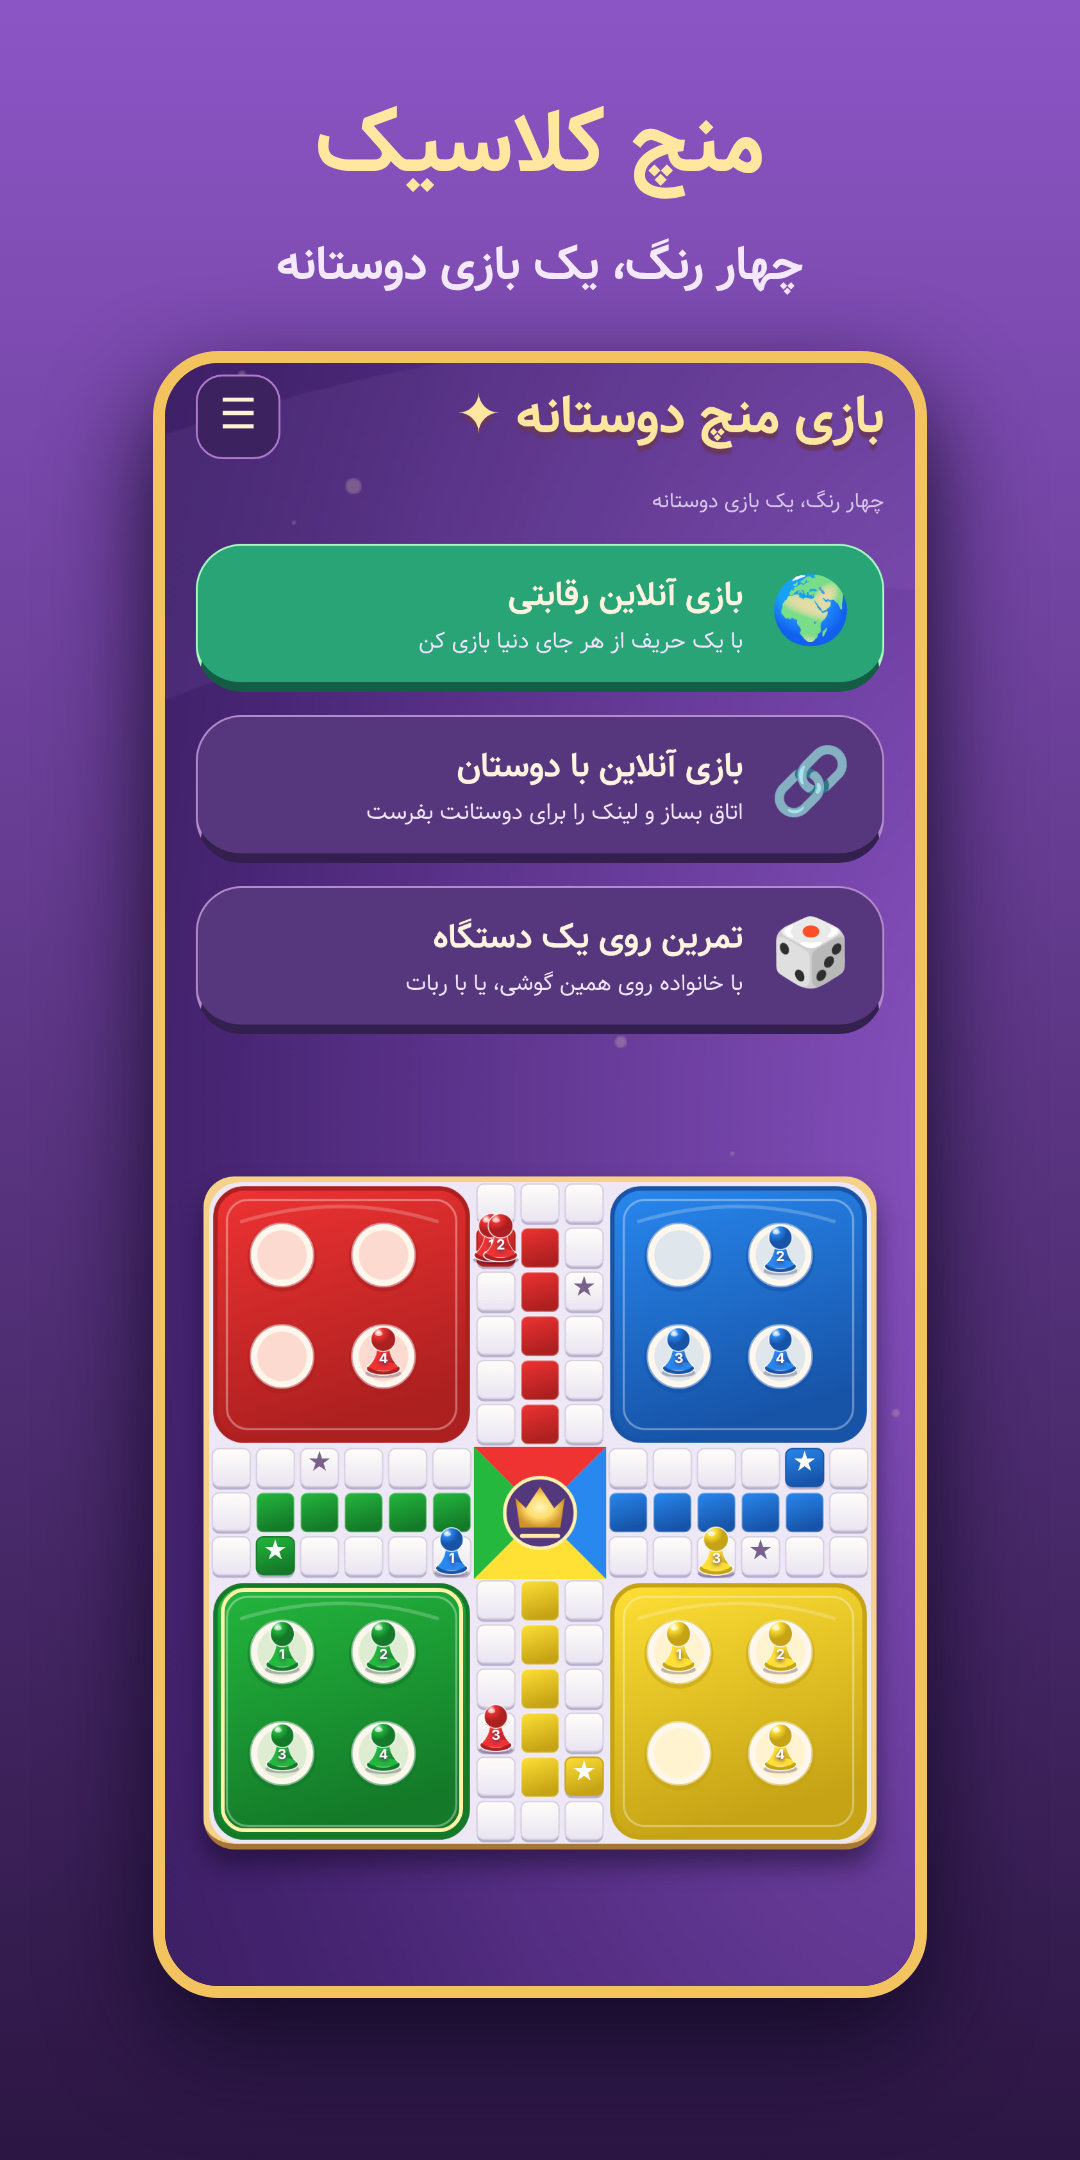
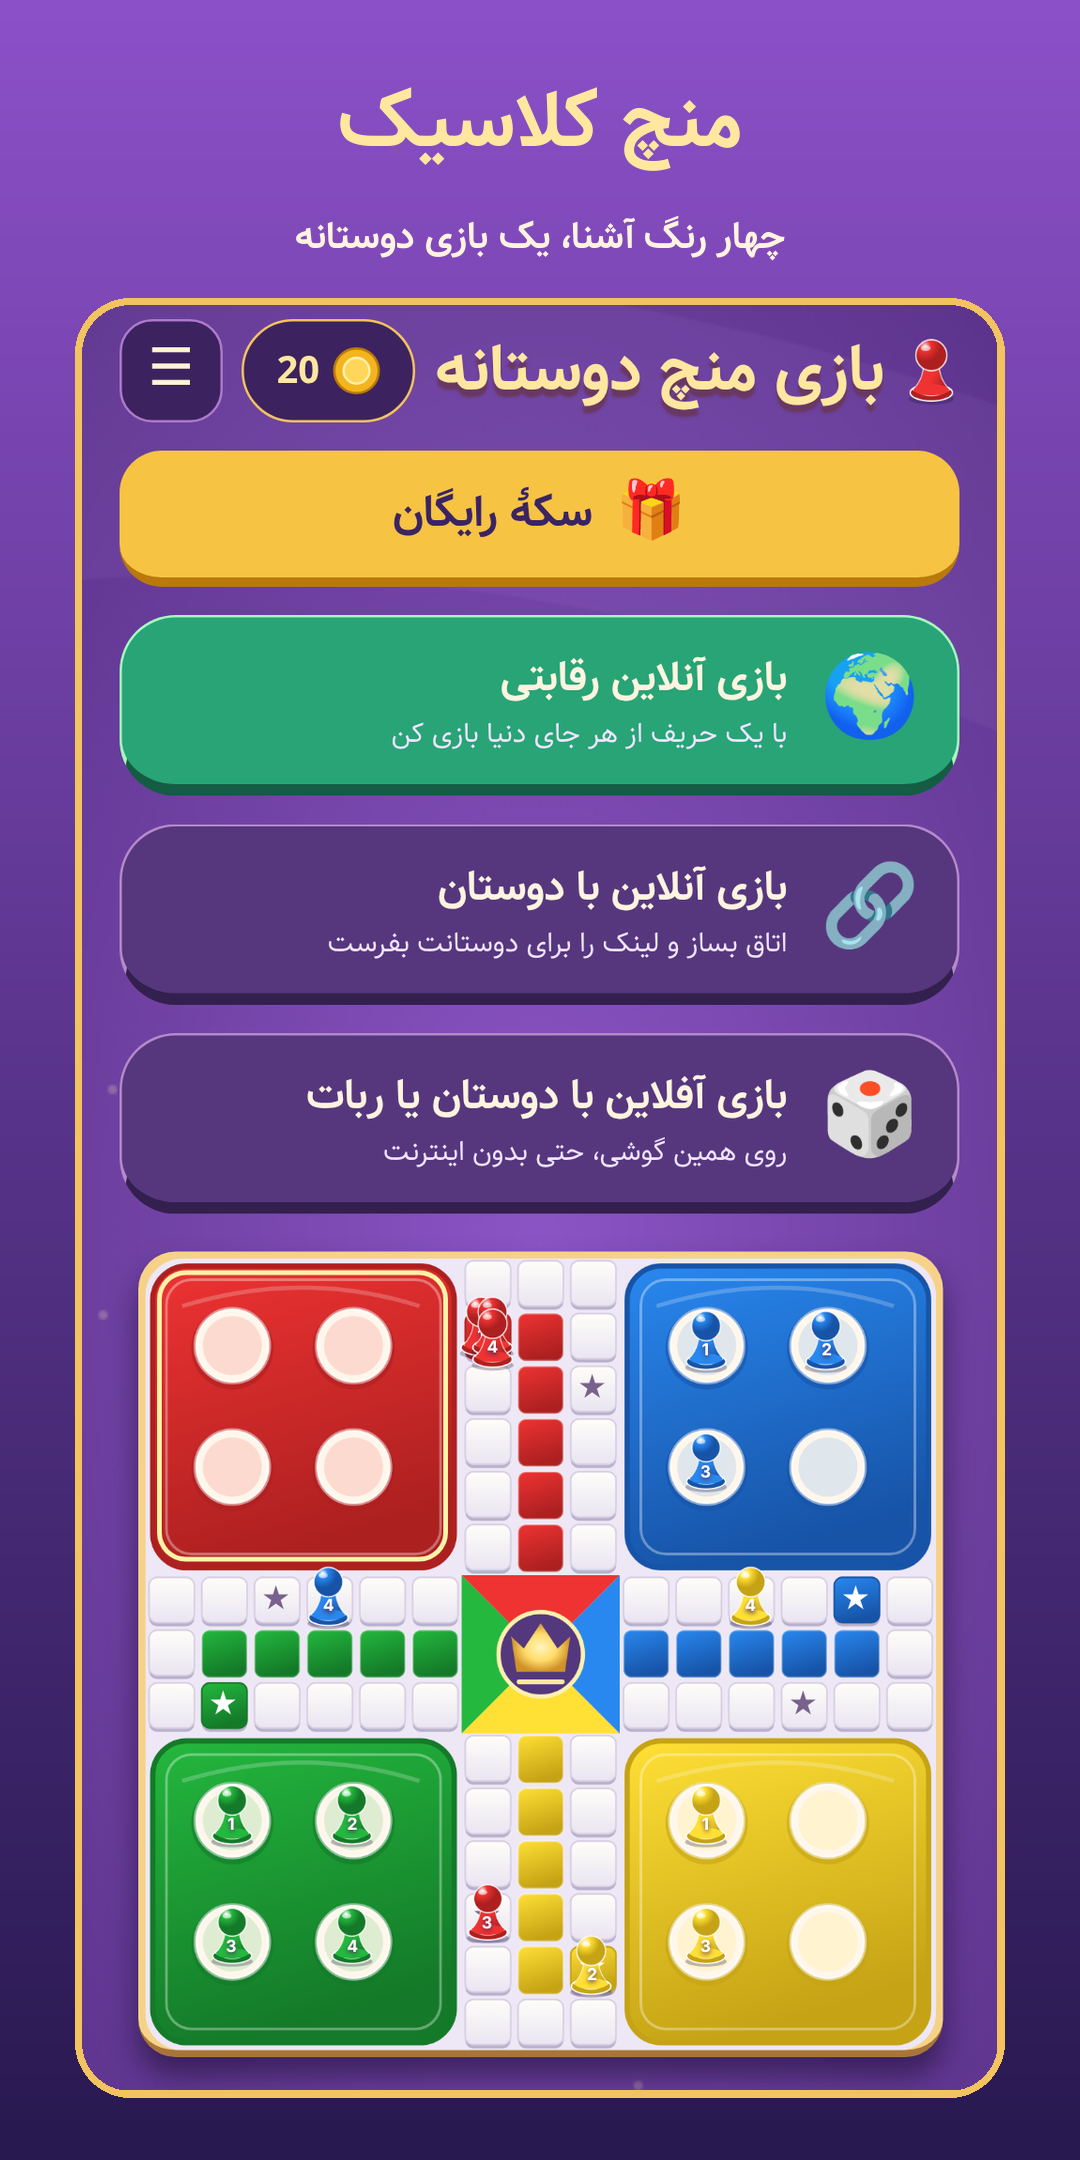
chore(bazaar): Persian 1.1.0 screenshots and listing text
Claude-Session: https://claude.ai/code/session_01ABqsk678opZoTs7ewpNdtH

diff --git a/apps/mobile/store/bazaar/listing-fa.md b/apps/mobile/store/bazaar/listing-fa.md
@@ -3,7 +3,7 @@
 **Name (نام برنامه):** بازی منچ دوستانه
 
 **Short description (توضیح کوتاه، حداکثر ۸۰ نویسه):**
-منچ کلاسیک چهار رنگ؛ آنلاین با دوستان، رقابتی، یا با یک گوشی کنار خانواده
+منچ کلاسیک چهار رنگ؛ آنلاین با دوستان، رقابتی، یا آفلاین با ربات و خانواده
 
 **Category (دسته):** بازی › فکری / تختهای — رده سنی: همه (۳+)
 
@@ -14,7 +14,7 @@
 🎲 هر طور که دوست داری بازی کن
 • بازی آنلاین رقابتی: در چند ثانیه حریف پیدا کن.
 • بازی آنلاین با دوستان: اتاق بساز و لینک دعوت را بفرست؛ دوستانت از اپ یا سایت وارد میشوند.
-• تمرین روی یک دستگاه: دو تا چهار نفر با یک گوشی، یا بازی با کامپیوتر.
+• بازی آفلاین با دوستان یا ربات: دو تا چهار نفر با یک گوشی، حتی بدون اینترنت.
 
 📜 قوانین کلاسیک
 • با عدد ۶ مهره وارد زمین میشود و یک تاس جایزه میگیری.
@@ -22,17 +22,25 @@
 • روی مهرهٔ حریف بنشینی، به خانهاش برمیگردد. خانههای ستارهدار امن هستند.
 • هر کس زودتر هر چهار مهره را به وسط برساند، برنده است.
 
+🪙 سکهٔ رایگان
+• جایزهٔ روزانه: هر روز ۲۰ سکه.
+• بردن بازی: ۱۰ سکه برای هر برد آنلاین (روزی ۵ بار) و ۵ سکه برای برد مقابل ربات (روزی ۳ بار).
+• دیدن تبلیغ: هر تبلیغ = ۲۰ سکهٔ رایگان (اختیاری، روزی ۵ بار).
+
+🎨 طرحهای خاص
+با سکههایت صفحه، مهره و تاس با طرحهای ایرانی بخر: صفحهٔ چوبی، شب کویر، فیروزهکوبی، کاشی اصفهان و خاتمکاری؛ مهرههای شیشهای، مسی و طلایی؛ و تاسهای کهکشان، مرمر سبز، تراورتن، لاجورد، اناری، مس چکشی، فیروزهٔ نیشابور، طلای حکاکی و چوب گردو. سکه فروشی نیست و فقط ظاهر بازی را عوض میکند.
+
 ✅ تاس منصفانه
-در بازی آنلاین، سرور پیش از هر پرتاب به نتیجه متعهد میشود و گوشی شما هم یک عدد تصادفی اضافه میکند؛ هر پرتاب با «بررسی تاس» قابل بررسی است. تاس هیچوقت دستکاری نمیشود.
+در بازی آنلاین، سرور پیش از هر پرتاب به نتیجه متعهد میشود و گوشی شما هم یک عدد تصادفی اضافه میکند؛ هر پرتاب قابل بررسی است. تاس هیچوقت دستکاری نمیشود، هر طرحی که داشته باشی.
 
 🚫 بدون ثبتنام
-نه حساب کاربری، نه ردیابی. فقط یک نام نمایشی انتخاب کن و بازی کن.
+نه حساب کاربری، نه ردیابی. فقط یک نام نمایشی انتخاب کن و بازی کن. سکههایت با یک کد بازیابی یا پشتیبان گوگل حفظ میشوند.
 
-🪙 سکهٔ روزانه
-هر روز سکهٔ رایگان بگیر و با آن صفحه، مهره و تاس با طرحهای ایرانی بخر: چوب، فیروزهکوبی، کاشی، خاتم، مس و طلا. سکهٔ بیشتر میخواهی؟ در فروشگاه، اگر خواستی، یک تبلیغ ببین. سکه فروشی نیست و فقط ظاهر بازی را عوض میکند؛ تاس همیشه منصفانه است.
+**What's new 1.1.0 (تغییرات این نسخه):**
+صفحهٔ «سکهٔ رایگان»، سکه برای بردن بازی، تاسهای جدید (کهکشان، مرمر سبز، تراورتن، لاجورد و…)، صفحهٔ چوبی تازه، بازی آفلاین بدون اینترنت و پیام واضح وقتی اینترنت قطع است.
 
 **Privacy policy (سیاست حریم خصوصی):** https://espadna.com/mench-app/privacy/
 **Website:** https://espadna.com/mench-app/fa/
 **Support email:** espadna.support@gmail.com
 
-Screenshots: `bazaar-1.png` … `bazaar-5.png` (1080×2160). Icon: `icon-512.png`.
+Screenshots: `bazaar-1.png` … `bazaar-5.png` (1080×2160, `STORE=bazaar node scripts/store-screenshots.mjs`). Icon: `icon-512.png`.
